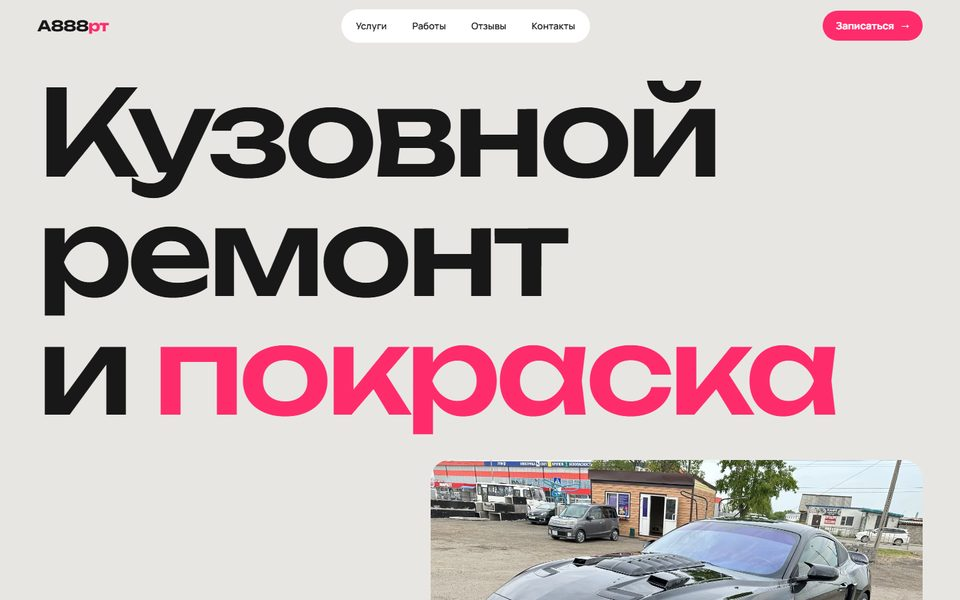
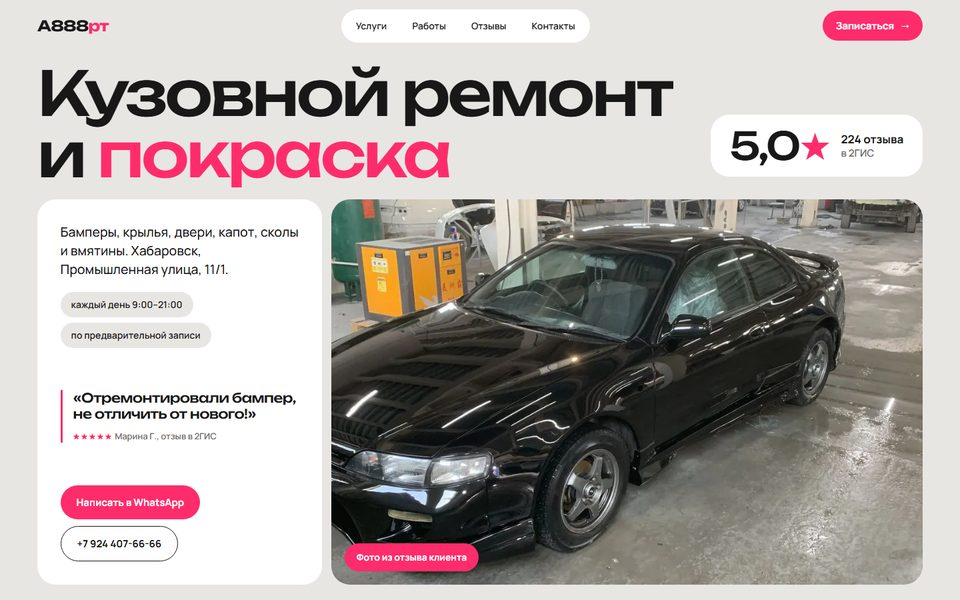
Первый экран А888рт помещается в экран, слайдер в Спектр Строй

diff --git a/spektr-stroy/index.html b/spektr-stroy/index.html
@@ -24,8 +24,8 @@ a{color:inherit;text-decoration:none}
 .btn:hover{background:var(--ink);color:var(--bg)}
 .btn.fill{background:var(--ink);color:var(--bg);border-color:var(--ink)}.btn.fill:hover{background:var(--olive);border-color:var(--olive)}
 /* header */
-.hdr{position:fixed;inset:0 0 auto;z-index:50;display:flex;justify-content:space-between;align-items:center;padding:22px var(--pad);transition:background .4s,padding .4s}
-.hdr.on{background:rgba(242,240,237,.92);backdrop-filter:blur(10px);padding:14px var(--pad);border-bottom:1px solid var(--line)}
+.hdr{position:fixed;inset:0 0 auto;z-index:50;display:flex;justify-content:space-between;align-items:center;padding:22px max(var(--pad),calc((100vw - 1680px)/2 + var(--pad)));transition:background .4s,padding .4s}
+.hdr.on{background:rgba(242,240,237,.92);backdrop-filter:blur(10px);padding-top:14px;padding-bottom:14px;border-bottom:1px solid var(--line)}
 .logo{font-family:"Cormorant Garamond",serif;font-size:28px;font-weight:500;letter-spacing:-.01em}
 .nav{display:flex;gap:34px}.nav a{font-size:12px;letter-spacing:.2em;text-transform:uppercase}
 .nav a:hover{color:var(--taupe)}
@@ -34,9 +34,21 @@ a{color:inherit;text-decoration:none}
 .hero{position:relative;padding-top:130px;min-height:100vh}
 .hero-grid{display:grid;grid-template-columns:minmax(0,.9fr) minmax(0,1.1fr);gap:clamp(24px,4vw,64px);align-items:end}
 .hero-img{height:min(76vh,820px);overflow:hidden;position:relative}
-.hero-img img{width:100%;height:115%;object-fit:cover}
-.hero h1{font-size:clamp(50px,12.5vw,220px);position:relative;z-index:2;margin-top:clamp(16px,3vw,40px);white-space:nowrap}
-.hero h1 .l2{display:block;padding-left:.6em;font-style:italic}
+.slide{position:absolute;inset:0;opacity:0;transition:opacity 1.2s ease}
+.slide.on{opacity:1;z-index:1}
+.slide img{width:100%;height:100%;object-fit:cover;transform:scale(1.08);transition:transform 7s linear}
+.slide.on img{transform:scale(1)}
+.sl-ui{position:absolute;left:0;right:0;bottom:0;z-index:3;display:flex;align-items:center;gap:18px;padding:60px 24px 20px;background:linear-gradient(transparent,rgba(5,5,5,.55));color:#f2f0ed}
+.sl-n{font-family:"Cormorant Garamond",serif;font-size:22px;white-space:nowrap}
+.sl-cap{font-size:12px;letter-spacing:.2em;text-transform:uppercase;white-space:nowrap}
+.sl-bar{flex:1;height:1px;background:rgba(242,240,237,.35);position:relative;overflow:hidden;min-width:40px}
+.sl-bar i{position:absolute;inset:0;background:#f2f0ed;transform-origin:left;transform:scaleX(0)}
+.sl-bar i.run{animation:slbar 5.5s linear forwards}
+@keyframes slbar{to{transform:scaleX(1)}}
+.sl-btn{width:44px;height:44px;border:1px solid rgba(242,240,237,.6);border-radius:50%;display:grid;place-items:center;background:none;color:inherit;cursor:pointer;font-size:18px;transition:background .3s,color .3s;flex:0 0 auto}
+.sl-btn:hover{background:#f2f0ed;color:#050505}
+.hero h1{font-size:clamp(52px,6vw,115px);position:relative;z-index:2;margin-top:clamp(16px,3vw,40px);white-space:nowrap}
+.hero h1 .l2{display:block;padding-left:.45em;font-style:italic}
 .hero h1 .w{display:inline-block;overflow:hidden;vertical-align:top;padding:.12em .14em .26em 0;margin:-.12em -.14em -.26em 0}
 .hero h1 .w span{display:inline-block}
 .hero-meta{display:grid;grid-template-columns:minmax(0,1fr);gap:26px;padding-bottom:10px}
@@ -93,7 +105,9 @@ a{color:inherit;text-decoration:none}
  .hero{min-height:0}
  .hero-grid,.intro,.ct-grid{grid-template-columns:minmax(0,1fr)}
  .hero-img{height:auto;aspect-ratio:1/1;order:-1}
- .hero h1{font-size:clamp(46px,14vw,120px)}
+ .hero h1{font-size:clamp(44px,13vw,100px)}
+ .sl-cap{display:none}
+ .sl-ui{padding:50px 14px 14px;gap:12px}
  .hero h1 .l2{padding-left:.35em}
  .stats{grid-template-columns:repeat(2,minmax(0,1fr))}
  .stats div:nth-child(2){border-right:0}.stats div:nth-child(-n+2){border-bottom:1px solid var(--line)}
@@ -122,7 +136,15 @@ html.js [data-r]{opacity:0;transform:translateY(36px)}
       <p data-r>Ремонт квартир и&nbsp;помещений. Также кровельные, электромонтажные и&nbsp;фасадные работы, строим бани и&nbsp;сауны.</p>
       <div data-r style="display:flex;gap:12px;flex-wrap:wrap"><a class="btn fill" href="https://wa.me/79144177334" target="_blank" rel="noopener">Обсудить ремонт</a><a class="btn" href="#projects">Смотреть объекты</a></div>
     </div>
-    <div class="hero-img"><img id="heroImg" src="img/p22.webp" alt="Гостиная с кухней после ремонта" fetchpriority="high"></div>
+    <div class="hero-img" id="slider">
+      <figure class="slide on" data-cap="Кухня-гостиная"><img src="img/p22.webp" alt="Кухня-гостиная с серым диваном" fetchpriority="high"></figure>
+      <figure class="slide" data-cap="Гостиная"><img src="img/p16.webp" alt="Гостиная с подсветкой потолка"></figure>
+      <figure class="slide" data-cap="Кухня"><img src="img/p20.webp" alt="Кухня с барной стойкой"></figure>
+      <figure class="slide" data-cap="Ванная комната"><img src="img/p21.webp" alt="Ванная с зеркалом с подсветкой"></figure>
+      <figure class="slide" data-cap="Кухня-гостиная"><img src="img/p47.webp" alt="Кухня-гостиная с деревянной колонной"></figure>
+      <figure class="slide" data-cap="Ванная комната"><img src="img/p17.webp" alt="Ванная с отдельно стоящей ванной у окна"></figure>
+      <div class="sl-ui"><span class="sl-n"><b id="slN">01</b> / 06</span><span class="sl-cap" id="slCap">Кухня-гостиная</span><span class="sl-bar"><i id="slBar"></i></span><button class="sl-btn" id="slPrev" aria-label="Предыдущее фото">←</button><button class="sl-btn" id="slNext" aria-label="Следующее фото">→</button></div>
+    </div>
   </div>
   <div class="stats" data-r>
     <div><b>4,6</b><span>оценка в&nbsp;2ГИС</span></div>
@@ -205,6 +227,16 @@ html.js [data-r]{opacity:0;transform:translateY(36px)}
 <script src="https://unpkg.com/lenis@1.1.13/dist/lenis.min.js"></script>
 <script>
 (function(){
+  var sl=document.getElementById('slider'),sd=[].slice.call(sl.querySelectorAll('.slide')),cur=0,tm,bar=document.getElementById('slBar');
+  function go(n){sd[cur].classList.remove('on');cur=(n+sd.length)%sd.length;sd[cur].classList.add('on');
+    document.getElementById('slN').textContent=('0'+(cur+1)).slice(-2);document.getElementById('slCap').textContent=sd[cur].dataset.cap;
+    bar.classList.remove('run');void bar.offsetWidth;bar.classList.add('run');clearTimeout(tm);tm=setTimeout(function(){go(cur+1)},5500)}
+  document.getElementById('slPrev').onclick=function(){go(cur-1)};document.getElementById('slNext').onclick=function(){go(cur+1)};
+  var x0=null;sl.addEventListener('touchstart',function(e){x0=e.touches[0].clientX},{passive:true});
+  sl.addEventListener('touchend',function(e){if(x0===null)return;var dx=e.changedTouches[0].clientX-x0;if(Math.abs(dx)>40)go(cur+(dx<0?1:-1));x0=null});
+  go(0);
+})();
+(function(){
   var hdr=document.getElementById('hdr');
   addEventListener('scroll',function(){hdr.classList.toggle('on',scrollY>30)},{passive:true});
   if(!window.gsap){document.documentElement.classList.remove('js');return}
@@ -215,8 +247,6 @@ html.js [data-r]{opacity:0;transform:translateY(36px)}
 
   gsap.from('.hero h1 .w span',{yPercent:150,duration:1.4,ease:'expo.out',stagger:.12,delay:.15});
   gsap.fromTo('.hero-img',{clipPath:'inset(100% 0 0 0)'},{clipPath:'inset(0% 0 0 0)',duration:1.5,ease:'expo.inOut'});
-  gsap.fromTo('#heroImg',{scale:1.3},{scale:1,duration:2,ease:'expo.out'});
-  gsap.to('#heroImg',{yPercent:-10,ease:'none',scrollTrigger:{trigger:'.hero-img',start:'top top',end:'bottom top',scrub:true}});
 
   gsap.utils.toArray('[data-r]').forEach(function(el){
     gsap.to(el,{opacity:1,y:0,duration:1.1,ease:'power3.out',scrollTrigger:{trigger:el,start:'top 88%',once:true}});

diff --git a/a888rt/index.html b/a888rt/index.html
@@ -25,7 +25,7 @@ a{color:inherit;text-decoration:none}
 .chip{display:inline-flex;align-items:center;gap:8px;border-radius:999px;background:var(--white);padding:8px 16px;font-size:14px;font-weight:600}
 .chip b{color:var(--pink)}
 /* header */
-.hdr{position:fixed;inset:0 0 auto 0;z-index:50;padding:14px var(--pad);display:flex;align-items:center;justify-content:space-between;gap:16px;transition:background .3s}
+.hdr{position:fixed;inset:0 0 auto 0;z-index:50;padding:14px max(var(--pad),calc((100vw - 1600px)/2 + var(--pad)));display:flex;align-items:center;justify-content:space-between;gap:16px;transition:background .3s}
 .hdr.on{background:rgba(232,230,227,.86);backdrop-filter:blur(12px)}
 .logo{font-family:Unbounded;font-weight:700;font-size:22px;letter-spacing:-.04em}
 .logo span{color:var(--pink)}
@@ -34,17 +34,32 @@ a{color:inherit;text-decoration:none}
 .nav a:hover{background:var(--bg)}
 .hdr .pill{padding:11px 20px}
 /* hero */
-.hero{padding-top:120px;padding-bottom:40px}
-.hero h1{font-size:clamp(36px,12.4vw,190px)}
+.hero{min-height:100vh;min-height:100svh;display:flex;flex-direction:column;padding-top:clamp(84px,11vh,112px);padding-bottom:clamp(14px,2.6vh,28px)}
+.hero-head{display:flex;justify-content:space-between;align-items:flex-end;gap:24px}
+.hero h1{font-size:clamp(36px,min(6.4vw,12vh),100px)}
 .hero h1 .ln{display:block;overflow:hidden;padding:.12em 0 .24em;margin:-.12em 0 -.24em}
 .hero h1 .ln span{display:inline-block}
 .hero h1 .pk{color:var(--pink)}
-.hero-row{display:grid;grid-template-columns:minmax(0,1fr) minmax(0,1.35fr);gap:clamp(20px,3vw,48px);margin-top:clamp(28px,4vw,56px);align-items:end}
-.hero-txt p{font-size:clamp(17px,1.5vw,21px);max-width:440px;margin-bottom:24px}
-.hero-chips{display:flex;flex-wrap:wrap;gap:8px;margin-bottom:28px}
+.hero h1 .br{display:none}
+.rate{background:var(--white);border-radius:var(--r);padding:clamp(16px,2vh,24px) clamp(20px,2vw,30px);display:flex;align-items:center;gap:18px;flex:0 0 auto;margin-bottom:.4em}
+.rate b{font-family:Unbounded;font-weight:500;font-size:clamp(34px,min(4vw,7vh),68px);letter-spacing:-.05em;line-height:1}
+.rate b i{font-style:normal;color:var(--pink)}
+.rate span{font-weight:600;font-size:15px;line-height:1.3;color:var(--mut)}
+.rate span strong{color:var(--ink);display:block;font-size:17px}
+.hero-body{flex:1;display:grid;grid-template-columns:minmax(0,.78fr) minmax(0,1.62fr);gap:14px;margin-top:clamp(16px,3vh,36px);min-height:340px}
+.hero-txt{background:var(--white);border-radius:var(--r);padding:clamp(22px,2.4vw,40px);display:flex;flex-direction:column;justify-content:space-between;gap:24px}
+.hero-txt p{font-size:clamp(17px,1.35vw,22px);line-height:1.45}
+.hero-chips{display:flex;flex-wrap:wrap;gap:8px}
+.hero-chips .chip{background:var(--bg)}
 .hero-btns{display:flex;flex-wrap:wrap;gap:10px}
-.hero-img{border-radius:var(--r);overflow:hidden;aspect-ratio:16/10}
-.hero-img img{width:100%;height:118%;object-fit:cover}
+.hq{border-left:3px solid var(--pink);padding-left:16px}
+.hq blockquote{font-family:Unbounded;font-weight:500;font-size:clamp(17px,1.35vw,22px);letter-spacing:-.03em;line-height:1.25}
+.hq figcaption{margin-top:10px;font-size:13px;font-weight:600;color:var(--mut)}
+.hq .stars{font-size:12px}
+@media (min-width:901px) and (max-width:1180px),(min-width:901px) and (max-height:800px){.hq{display:none}}
+.hero-img{border-radius:var(--r);overflow:hidden;position:relative;min-height:300px}
+.hero-img img{position:absolute;inset:0;width:100%;height:118%;object-fit:cover;object-position:center 60%}
+.sticker{position:absolute;left:20px;bottom:20px;z-index:2;background:var(--pink);color:#fff;border-radius:999px;padding:10px 18px;font-weight:700;font-size:14px}
 /* marquee */
 .mq-wrap{overflow:hidden;padding:30px 0;margin:clamp(20px,4vw,60px) 0}
 .mq{background:var(--pink);color:#fff;overflow:hidden;padding:18px 0;transform:rotate(-1.5deg) scaleX(1.04)}
@@ -99,8 +114,14 @@ a{color:inherit;text-decoration:none}
 .big{font-family:Unbounded;font-weight:700;font-size:clamp(60px,17vw,290px);letter-spacing:-.06em;line-height:.8;color:var(--pink);margin-top:clamp(40px,5vw,70px);white-space:nowrap}
 @media (max-width:900px){
  .nav{display:none}
- .hero-row,.svc,.ct-grid,.rv{grid-template-columns:minmax(0,1fr)}
- .hero-img{aspect-ratio:4/3}
+ .svc,.ct-grid,.rv,.hero-body{grid-template-columns:minmax(0,1fr)}
+ .hero{min-height:0}
+ .hero-head{flex-direction:column;align-items:flex-start;gap:18px}
+ .hero h1{font-size:clamp(36px,12.4vw,120px)}
+ .hero h1 .br{display:inline}
+ .rate{margin:0}
+ .hero-body{min-height:0}
+ .hero-img{aspect-ratio:4/3;min-height:0}
  .nums{grid-template-columns:minmax(0,1fr)}
  .card{min-height:0}
  .track{overflow-x:auto;width:auto;scroll-snap-type:x mandatory;padding-bottom:6px}
@@ -120,14 +141,18 @@ html:not(.js) .hero h1 .ln span{transform:none}
 
 <main id="top">
 <section class="hero wrap">
-  <h1 class="disp"><span class="ln"><span>Кузовной</span></span><span class="ln"><span>ремонт</span></span><span class="ln"><span>и&nbsp;<em class="pk" style="font-style:normal">покраска</em></span></span></h1>
-  <div class="hero-row">
+  <div class="hero-head">
+    <h1 class="disp"><span class="ln"><span>Кузовной ремонт</span></span><span class="ln"><span>и&nbsp;<em class="pk" style="font-style:normal">покраска</em></span></span></h1>
+    <div class="rate" data-r><b>5,0<i>★</i></b><span><strong>224 отзыва</strong>в&nbsp;2ГИС</span></div>
+  </div>
+  <div class="hero-body">
     <div class="hero-txt" data-r>
-      <div class="hero-chips"><span class="chip"><b>★ 5,0</b> в&nbsp;2ГИС</span><span class="chip">224 отзыва</span><span class="chip">каждый день 9:00–21:00</span></div>
-      <p>Хабаровск, Промышленная улица, 11/1. Работаем по&nbsp;предварительной записи.</p>
+      <div style="display:grid;gap:20px"><p>Бамперы, крылья, двери, капот, сколы и&nbsp;вмятины. Хабаровск, Промышленная улица, 11/1.</p>
+      <div class="hero-chips"><span class="chip">каждый день 9:00–21:00</span><span class="chip">по&nbsp;предварительной записи</span></div></div>
+      <figure class="hq"><blockquote>«Отремонтировали бампер, не&nbsp;отличить от&nbsp;нового!»</blockquote><figcaption><span class="stars">★★★★★</span> Марина Г., отзыв в&nbsp;2ГИС</figcaption></figure>
       <div class="hero-btns"><a class="pill pill-pink" href="https://wa.me/79244076666" target="_blank" rel="noopener">Написать в&nbsp;WhatsApp</a><a class="pill pill-line" href="tel:+79244076666">+7 924 407-66-66</a></div>
     </div>
-    <div class="hero-img"><img id="heroImg" src="img/p0.webp" alt="Чёрный спорткар после покраски у мастерской" fetchpriority="high"></div>
+    <div class="hero-img"><img id="heroImg" src="img/p29.webp" alt="Чёрный седан после покраски в цеху" fetchpriority="high"><span class="sticker">Фото из&nbsp;отзыва клиента</span></div>
   </div>
 </section>
 
